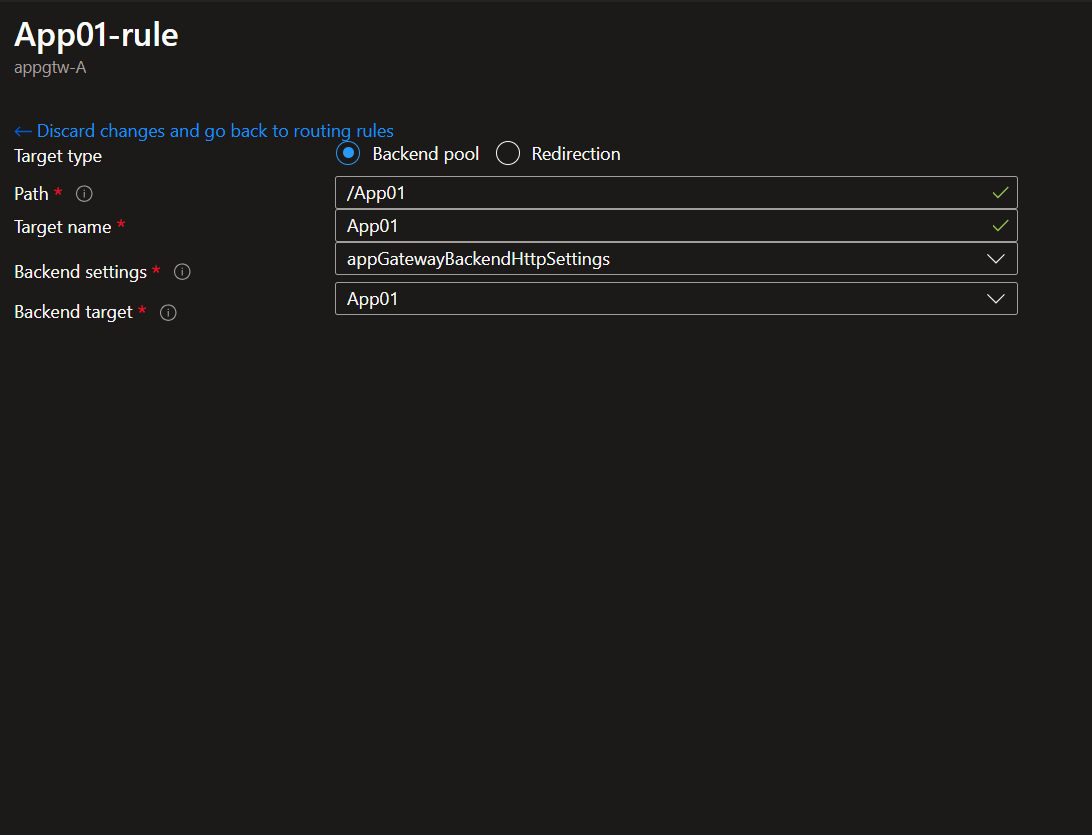
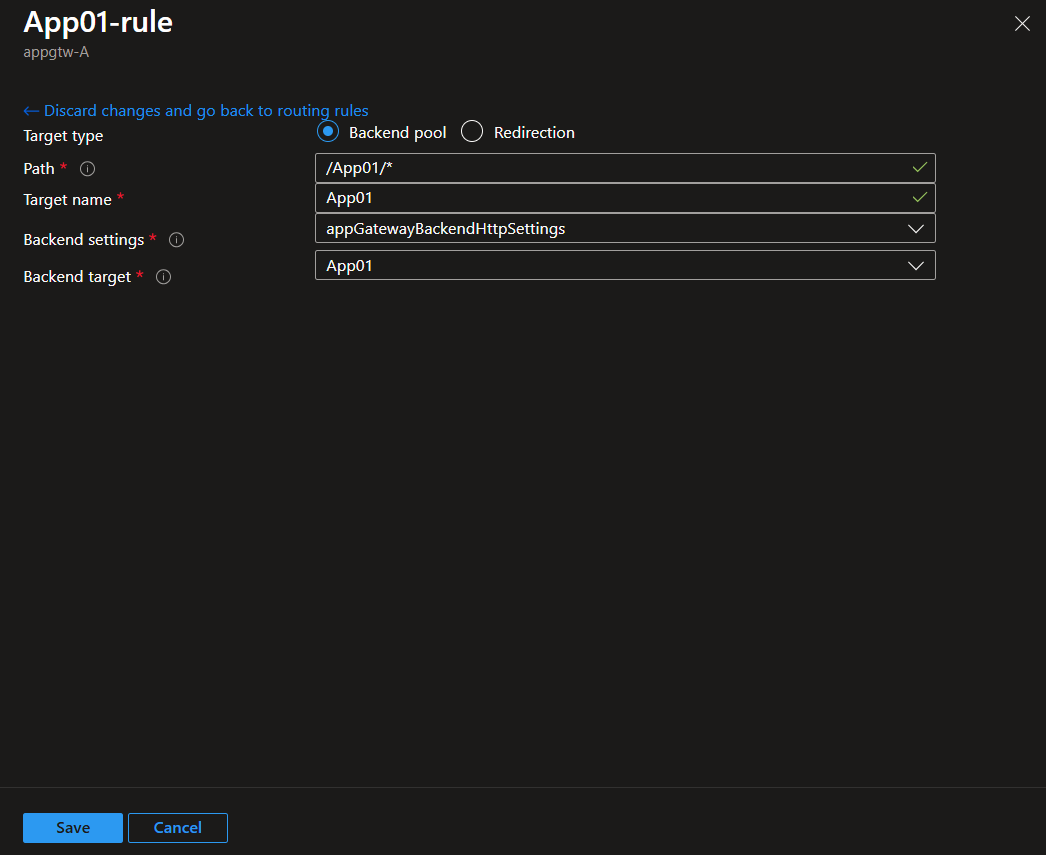
path patterns

Changed region(s): [[0.0, 0.1246, 0.9178, 0.4048], [0.0, 0.0, 0.1836, 0.0934], [0.0, 0.9341, 0.2141, 0.9964]]

diff --git a/README.md b/README.md
@@ -297,7 +297,7 @@ In Add routing rule page, add folowing values:
 |Name|Value|
 |-------|-----|
 |**Target type**|Backend pool|
-|**Path**|/App01|
+|**Path**|/App01/*|
 |**Target name**|App01|
 |**Backend settings**|appGatewayBackendHttpSettings|
 |**Backend target**|App01|
@@ -402,8 +402,8 @@ Now finally, lets create the rules for Front Door
 |**Endpoint**|*Leave default*|
 |**Enable route**|checked|
 |**Domains**|*Leave default*|
-|**Patterns to match**|*/App01*|
-||*/App02*|
+|**Patterns to match**|*/App01/**|
+||*/App02/**|
 |**Redirect**|***unchecked***|
 |**Origin group**|*SegmentA-og*|
 |**Forwarding protocol**|*Match incoming request*|
